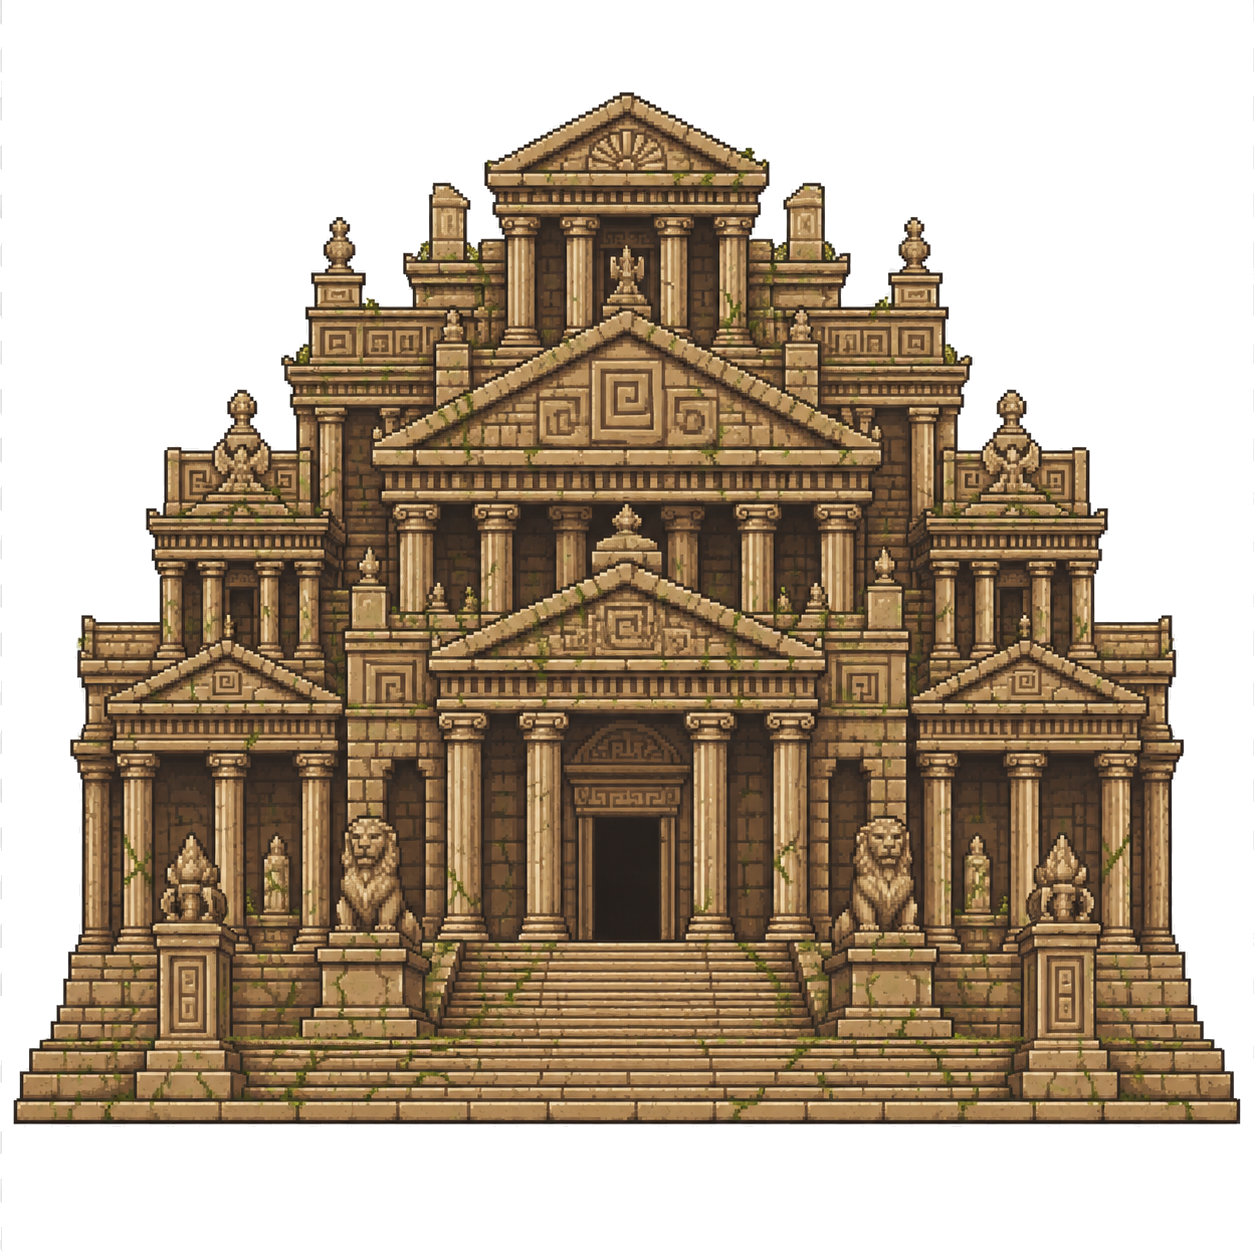
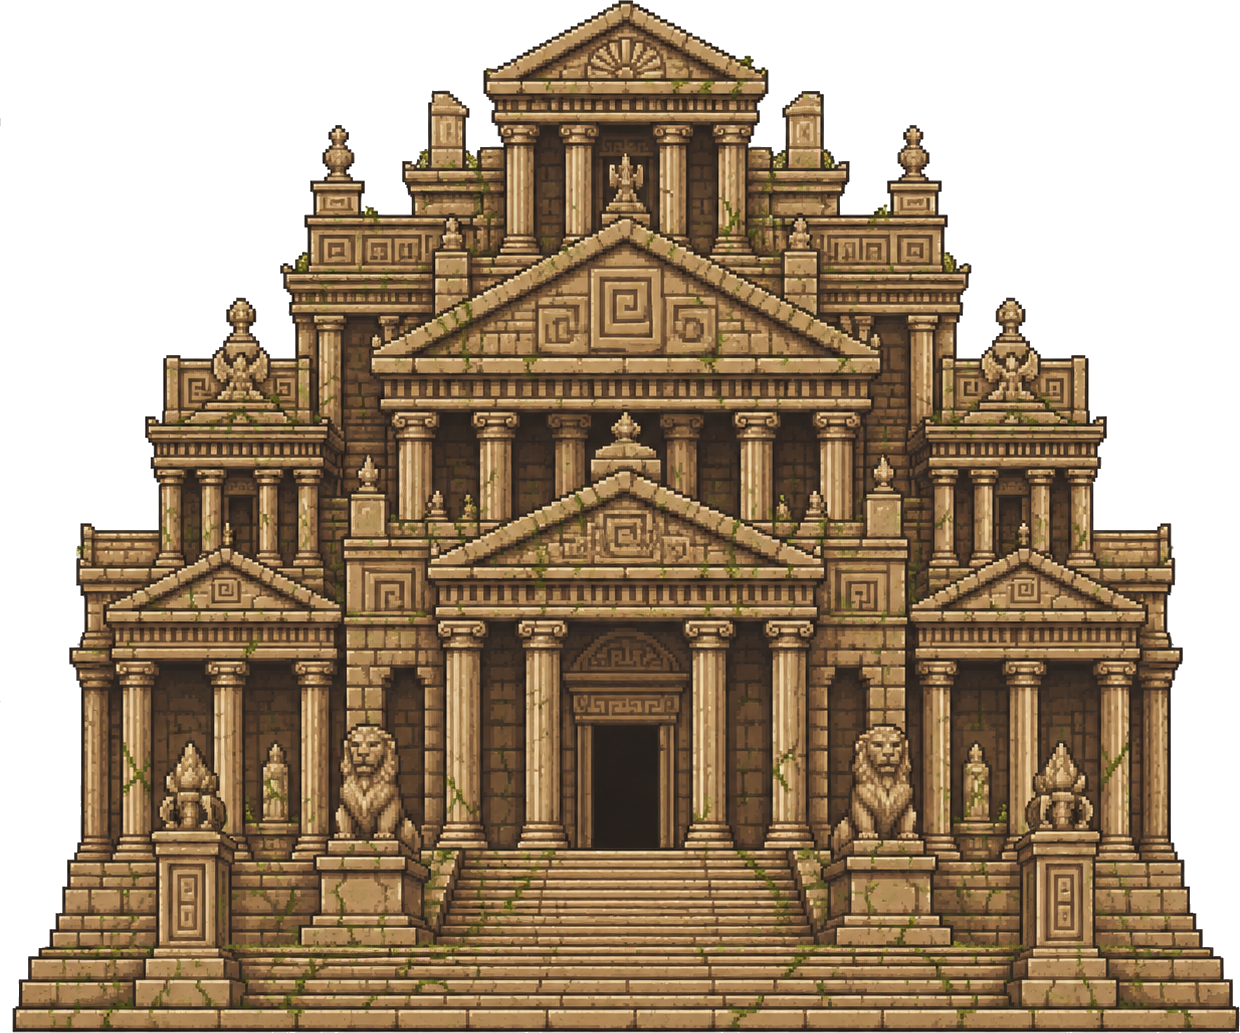
fix(township) Phase 2: pillow re-pass on townhall+citadel, fix animation reset on re-render, remove hint text

diff --git a/src/components/games/pantheon-wars/township/AtmosphereEffects.jsx b/src/components/games/pantheon-wars/township/AtmosphereEffects.jsx
@@ -1,4 +1,4 @@
-import { useEffect, useRef } from 'react'
+import { memo, useEffect, useRef } from 'react'
 import { getExtrasUrl } from './townshipConfig'
 
 const COLS         = 3
@@ -107,7 +107,7 @@ const SPRITES = [
 
 // group: 'sky' = birds (render outside world container, viewport-relative)
 //        'ground' = fire/smoke/ashes/env (render inside world container, world-relative)
-export default function AtmosphereEffects({ assetKey, group = 'all' }) {
+function AtmosphereEffects({ assetKey, group = 'all' }) {
   const reducedMotion = typeof window !== 'undefined'
     ? window.matchMedia('(prefers-reduced-motion: reduce)').matches
     : false
@@ -119,6 +119,18 @@ export default function AtmosphereEffects({ assetKey, group = 'all' }) {
 
   useEffect(() => {
     if (reducedMotion) return
+
+    // Set initial frame positions directly on DOM so React's style prop cannot reset them.
+    // (Parent re-renders would re-apply `backgroundPosition` shorthand and zero out the interval's work.)
+    filtered.forEach((_, i) => {
+      const el = refs.current[i]
+      if (!el) return
+      const f   = frames.current[i]
+      const col = f % COLS
+      const row = Math.floor(f / COLS)
+      el.style.backgroundPositionX = `${-(col * CELL_PX)}px`
+      el.style.backgroundPositionY = `${-(row * CELL_PX)}px`
+    })
 
     const timers = filtered.map((cfg, i) =>
       setInterval(() => {
@@ -148,15 +160,14 @@ export default function AtmosphereEffects({ assetKey, group = 'all' }) {
             key={cfg.id}
             ref={el => { refs.current[i] = el }}
             style={{
-              width:               CELL_PX,
-              height:              CELL_PX,
-              backgroundImage:     `url("${src}")`,
-              backgroundSize:      `${SHEET_PX}px ${SHEET_PX}px`,
-              backgroundRepeat:    'no-repeat',
-              backgroundPosition:  '0 0',
-              pointerEvents:       'none',
-              userSelect:          'none',
-              willChange:          'background-position',
+              width:            CELL_PX,
+              height:           CELL_PX,
+              backgroundImage:  `url("${src}")`,
+              backgroundSize:   `${SHEET_PX}px ${SHEET_PX}px`,
+              backgroundRepeat: 'no-repeat',
+              pointerEvents:    'none',
+              userSelect:       'none',
+              willChange:       'background-position',
               ...cfg.style,
             }}
           />
@@ -165,3 +176,5 @@ export default function AtmosphereEffects({ assetKey, group = 'all' }) {
     </>
   )
 }
+
+export default memo(AtmosphereEffects)

diff --git a/src/components/games/pantheon-wars/township/TownshipScene.jsx b/src/components/games/pantheon-wars/township/TownshipScene.jsx
@@ -362,21 +362,6 @@ export default function TownshipScene({ faction, townships, templeData, onBuildi
         </div>
       )}
 
-      <div style={{
-        position:      'absolute',
-        bottom:        12,
-        left:          '50%',
-        transform:     'translateX(-50%)',
-        zIndex:        20,
-        fontFamily:    "'IBM Plex Mono', monospace",
-        fontSize:      9,
-        letterSpacing: '0.12em',
-        color:         'rgba(201,169,97,0.3)',
-        pointerEvents: 'none',
-        whiteSpace:    'nowrap',
-      }}>
-        CLICK GROUND TO MOVE
-      </div>
     </div>
   )
 }

diff --git a/scripts/strip_bg_targeted.py b/scripts/strip_bg_targeted.py
@@ -1,0 +1,92 @@
+#!/usr/bin/env python3
+"""
+Targeted background removal for specific files.
+Uses threshold=220 to catch lighter gray pixels.
+Reports before/after opaque pixel counts.
+"""
+
+import sys
+from pathlib import Path
+from collections import deque
+
+try:
+    import numpy as np
+except ImportError:
+    print("ERROR: numpy required. pip install numpy")
+    sys.exit(1)
+
+from PIL import Image
+
+BASE = Path(__file__).parent.parent / "public" / "pantheon_wars_assets"
+
+TARGETS = [
+    BASE / "buildings" / "greek"   / "bldg_townhall_greek_t1.png",
+    BASE / "buildings" / "temples" / "temple_pantheon_citadel.png",
+]
+
+THRESHOLD = 220
+
+
+def remove_bg(img):
+    img = img.convert("RGBA")
+    data = np.array(img, dtype=np.uint8)
+    h, w = data.shape[:2]
+
+    near_white = (
+        (data[:, :, 0] >= THRESHOLD) &
+        (data[:, :, 1] >= THRESHOLD) &
+        (data[:, :, 2] >= THRESHOLD)
+    )
+
+    visited = np.zeros((h, w), dtype=bool)
+    queue = deque()
+
+    for r, c in [(0, 0), (0, w - 1), (h - 1, 0), (h - 1, w - 1)]:
+        if near_white[r, c] and not visited[r, c]:
+            visited[r, c] = True
+            queue.append((r, c))
+
+    while queue:
+        r, c = queue.popleft()
+        for dr, dc in ((-1, 0), (1, 0), (0, -1), (0, 1)):
+            nr, nc = r + dr, c + dc
+            if 0 <= nr < h and 0 <= nc < w and not visited[nr, nc] and near_white[nr, nc]:
+                visited[nr, nc] = True
+                queue.append((nr, nc))
+
+    data[visited, 3] = 0
+    return Image.fromarray(data, "RGBA")
+
+
+def count_opaque(img):
+    arr = np.array(img.convert("RGBA"))
+    return int((arr[:, :, 3] > 0).sum())
+
+
+def main():
+    for path in TARGETS:
+        if not path.exists():
+            print(f"MISSING: {path.name}")
+            continue
+
+        original = Image.open(path)
+        before_count = count_opaque(original)
+
+        result = remove_bg(original)
+        bbox = result.getbbox()
+        if bbox:
+            result = result.crop(bbox)
+
+        after_count = count_opaque(result)
+        result.save(path, "PNG")
+
+        removed = before_count - after_count
+        print(f"{path.name}")
+        print(f"  before: {before_count:,} opaque pixels  size={original.size}")
+        print(f"  after : {after_count:,} opaque pixels  size={result.size}")
+        print(f"  removed: {removed:,} background pixels")
+        print()
+
+
+if __name__ == "__main__":
+    main()

diff --git a/scripts/check_sprites.py b/scripts/check_sprites.py
@@ -1,0 +1,20 @@
+#!/usr/bin/env python3
+from PIL import Image
+import numpy as np
+
+files = [
+    'public/pantheon_wars_assets/extras/greek/extra_birds_greek.png',
+    'public/pantheon_wars_assets/extras/greek/extra_fire_greek.png',
+    'public/pantheon_wars_assets/extras/greek/extra_smoke_greek.png',
+    'public/pantheon_wars_assets/extras/greek/extra_ashes_greek.png',
+    'public/pantheon_wars_assets/extras/greek/extra_enviroparticles_greek.png',
+    'public/pantheon_wars_assets/buildings/greek/bldg_townhall_greek_t1.png',
+    'public/pantheon_wars_assets/buildings/temples/temple_pantheon_citadel.png',
+]
+
+for f in files:
+    img = Image.open(f).convert('RGBA')
+    arr = np.array(img)
+    opaque = int((arr[:,:,3] > 0).sum())
+    name = f.split('/')[-1]
+    print(f"{name}: {img.width}x{img.height} opaque={opaque}")
